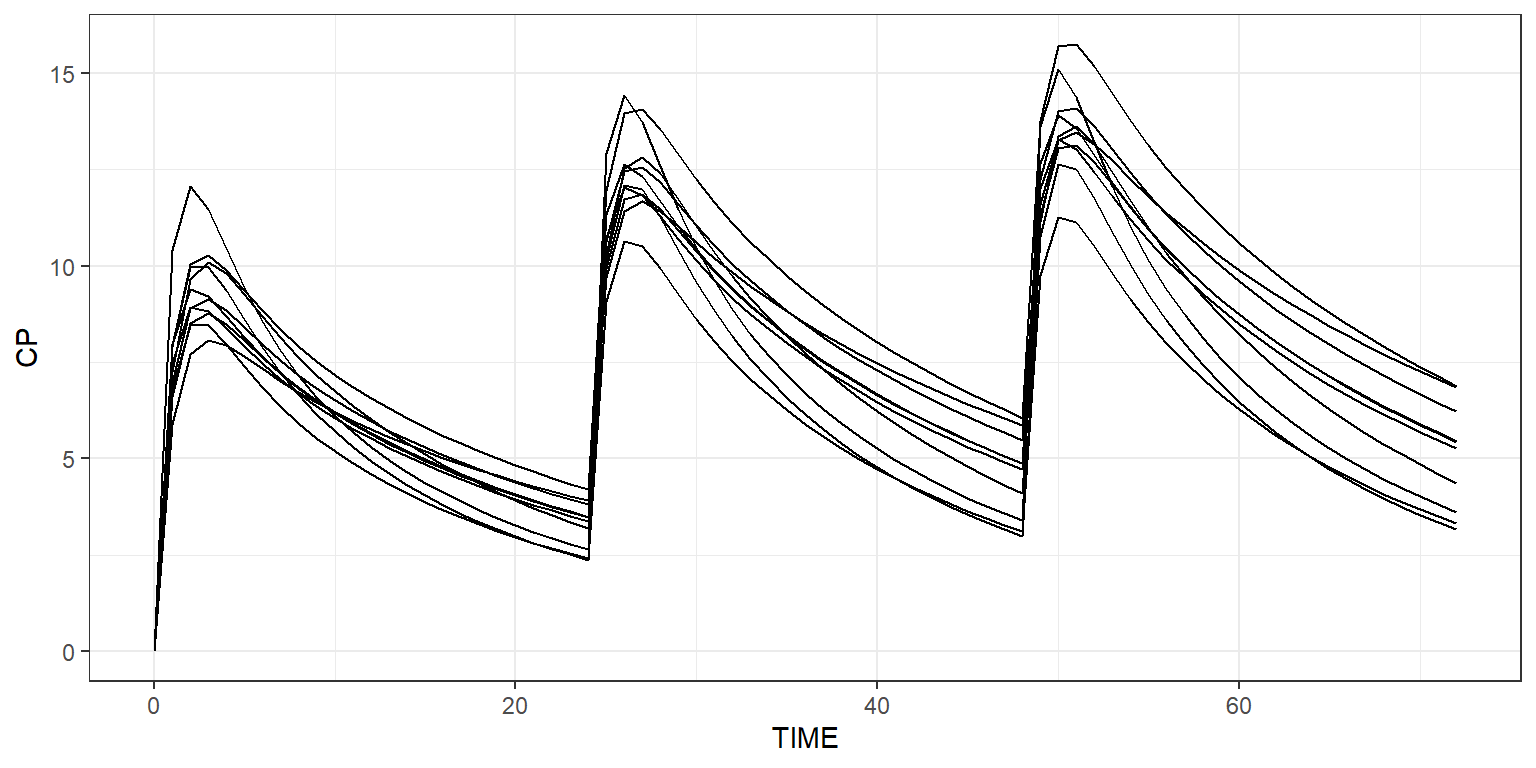
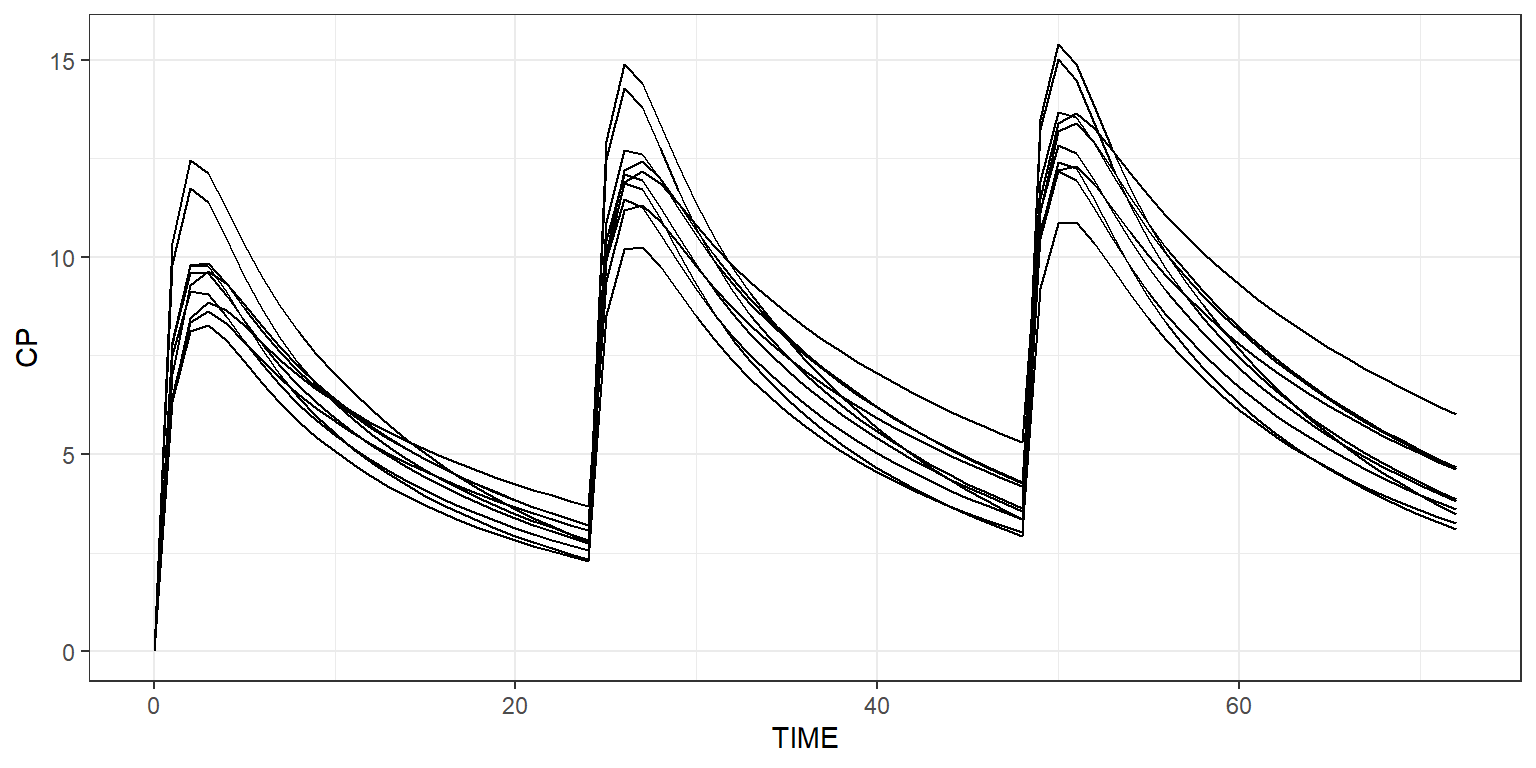
Update (fix seed in simulations).

diff --git a/get_started.html b/get_started.html
@@ -29,8 +29,8 @@
 <link href="site_libs/font-awesome-5.1.0/css/all.css" rel="stylesheet" />
 <link href="site_libs/font-awesome-5.1.0/css/v4-shims.css" rel="stylesheet" />
 <meta property="og:title" content="CAMPSIS">
-<meta property="og:description" content="An open-source PK/PD model simulation platform.">
-<meta property="og:image" content="https://calvagone.github.io/images/campsis_logo.png">
+<meta property="og:description" content="An open-source PK/PD simulation platform">
+<meta property="og:image" content="https://calvagone.github.io/images/campsis_og_image.png">
 <meta property="og:url" content="https://calvagone.github.io/">
 <meta property="twitter:card" content="summary_large_image">
 
@@ -453,11 +453,11 @@ div.tocify {
 <div id="simulate" class="section level2">
 <h2>Simulate</h2>
 <p>Simulate this very simple protocol:</p>
-<div class="sourceCode" id="cb4"><pre class="sourceCode r"><code class="sourceCode r"><span id="cb4-1"><a href="#cb4-1" aria-hidden="true" tabindex="-1"></a>results <span class="ot">&lt;-</span> model <span class="sc">%&gt;%</span> <span class="fu">simulate</span>(dataset)</span>
+<div class="sourceCode" id="cb4"><pre class="sourceCode r"><code class="sourceCode r"><span id="cb4-1"><a href="#cb4-1" aria-hidden="true" tabindex="-1"></a>results <span class="ot">&lt;-</span> model <span class="sc">%&gt;%</span> <span class="fu">simulate</span>(dataset, <span class="at">seed=</span><span class="dv">1</span>)</span>
 <span id="cb4-2"><a href="#cb4-2" aria-hidden="true" tabindex="-1"></a><span class="fu">head</span>(results)</span></code></pre></div>
 <div data-pagedtable="false">
 <script data-pagedtable-source type="application/json">
-{"columns":[{"label":["ID"],"name":[1],"type":["int"],"align":["right"]},{"label":["TIME"],"name":[2],"type":["dbl"],"align":["right"]},{"label":["ARM"],"name":[3],"type":["dbl"],"align":["right"]},{"label":["KA"],"name":[4],"type":["dbl"],"align":["right"]},{"label":["CL"],"name":[5],"type":["dbl"],"align":["right"]},{"label":["V2"],"name":[6],"type":["dbl"],"align":["right"]},{"label":["V3"],"name":[7],"type":["dbl"],"align":["right"]},{"label":["Q"],"name":[8],"type":["dbl"],"align":["right"]},{"label":["S2"],"name":[9],"type":["dbl"],"align":["right"]},{"label":["F"],"name":[10],"type":["dbl"],"align":["right"]},{"label":["CP"],"name":[11],"type":["dbl"],"align":["right"]},{"label":["OBS_CP"],"name":[12],"type":["dbl"],"align":["right"]},{"label":["Y"],"name":[13],"type":["dbl"],"align":["right"]},{"label":["A_DEPOT"],"name":[14],"type":["dbl"],"align":["right"]},{"label":["A_CENTRAL"],"name":[15],"type":["dbl"],"align":["right"]},{"label":["A_PERIPHERAL"],"name":[16],"type":["dbl"],"align":["right"]},{"label":["A_OUTPUT"],"name":[17],"type":["dbl"],"align":["right"]}],"data":[{"1":"1","2":"0","3":"0","4":"1.002694","5":"3.65725","6":"103.4389","7":"19.52297","8":"3.049516","9":"103.4389","10":"0.000000","11":"0.000000","12":"0.000000","13":"0.000000","14":"1000.000000","15":"0.0000","16":"0.00000","17":"0.00000"},{"1":"1","2":"1","3":"0","4":"1.002694","5":"3.65725","6":"103.4389","7":"19.52297","8":"3.049516","9":"103.4389","10":"5.900344","11":"5.900344","12":"4.284587","13":"4.284587","14":"366.889606","15":"610.3251","16":"10.04629","17":"12.73900"},{"1":"1","2":"2","3":"0","4":"1.002694","5":"3.65725","6":"103.4389","7":"19.52297","8":"3.049516","9":"103.4389","10":"7.720649","11":"7.720649","12":"8.579879","13":"8.579879","14":"134.607883","15":"798.6155","16":"28.42826","17":"38.34836"},{"1":"1","2":"3","3":"0","4":"1.002694","5":"3.65725","6":"103.4389","7":"19.52297","8":"3.049516","9":"103.4389","10":"8.084826","11":"8.084826","12":"8.799311","13":"8.799311","14":"49.386189","15":"836.2856","16":"46.83152","17":"67.49672"},{"1":"1","2":"4","3":"0","4":"1.002694","5":"3.65725","6":"103.4389","7":"19.52297","8":"3.049516","9":"103.4389","10":"7.948976","11":"7.948976","12":"7.091197","13":"7.091197","14":"18.119262","15":"822.2333","16":"62.75013","17":"96.89728"},{"1":"1","2":"5","3":"0","4":"1.002694","5":"3.65725","6":"103.4389","7":"19.52297","8":"3.049516","9":"103.4389","10":"7.658431","11":"7.658431","12":"9.806875","13":"9.806875","14":"6.647763","15":"792.1797","16":"75.71358","17":"125.45896"}],"options":{"columns":{"min":{},"max":[10]},"rows":{"min":[10],"max":[10]},"pages":{}}}
+{"columns":[{"label":["ID"],"name":[1],"type":["int"],"align":["right"]},{"label":["TIME"],"name":[2],"type":["dbl"],"align":["right"]},{"label":["ARM"],"name":[3],"type":["dbl"],"align":["right"]},{"label":["KA"],"name":[4],"type":["dbl"],"align":["right"]},{"label":["CL"],"name":[5],"type":["dbl"],"align":["right"]},{"label":["V2"],"name":[6],"type":["dbl"],"align":["right"]},{"label":["V3"],"name":[7],"type":["dbl"],"align":["right"]},{"label":["Q"],"name":[8],"type":["dbl"],"align":["right"]},{"label":["S2"],"name":[9],"type":["dbl"],"align":["right"]},{"label":["F"],"name":[10],"type":["dbl"],"align":["right"]},{"label":["CP"],"name":[11],"type":["dbl"],"align":["right"]},{"label":["OBS_CP"],"name":[12],"type":["dbl"],"align":["right"]},{"label":["Y"],"name":[13],"type":["dbl"],"align":["right"]},{"label":["A_DEPOT"],"name":[14],"type":["dbl"],"align":["right"]},{"label":["A_CENTRAL"],"name":[15],"type":["dbl"],"align":["right"]},{"label":["A_PERIPHERAL"],"name":[16],"type":["dbl"],"align":["right"]},{"label":["A_OUTPUT"],"name":[17],"type":["dbl"],"align":["right"]}],"data":[{"1":"1","2":"0","3":"0","4":"0.974322","5":"6.198232","6":"92.5112","7":"25.40042","8":"3.622786","9":"92.5112","10":"0.000000","11":"0.000000","12":"0.000000","13":"0.000000","14":"1000.000000","15":"0.0000","16":"0.00000","17":"0.00000"},{"1":"1","2":"1","3":"0","4":"0.974322","5":"6.198232","6":"92.5112","7":"25.40042","8":"3.622786","9":"92.5112","10":"6.337635","11":"6.337635","12":"5.417023","13":"5.417023","14":"377.448177","15":"586.3022","16":"12.94392","17":"23.30572"},{"1":"1","2":"2","3":"0","4":"0.974322","5":"6.198232","6":"92.5112","7":"25.40042","8":"3.622786","9":"92.5112","10":"8.124812","11":"8.124812","12":"9.140376","13":"9.140376","14":"142.467027","15":"751.6361","16":"36.43510","17":"69.46177"},{"1":"1","2":"3","3":"0","4":"0.974322","5":"6.198232","6":"92.5112","7":"25.40042","8":"3.622786","9":"92.5112","10":"8.279209","11":"8.279209","12":"10.403122","13":"10.403122","14":"53.773869","15":"765.9196","16":"59.54270","17":"120.76387"},{"1":"1","2":"4","3":"0","4":"0.974322","5":"6.198232","6":"92.5112","7":"25.40042","8":"3.622786","9":"92.5112","10":"7.887823","11":"7.887823","12":"8.126220","13":"8.126220","14":"20.296833","15":"729.7120","16":"78.98181","17":"171.00940"},{"1":"1","2":"5","3":"0","4":"0.974322","5":"6.198232","6":"92.5112","7":"25.40042","8":"3.622786","9":"92.5112","10":"7.349210","11":"7.349210","12":"10.154513","13":"10.154513","14":"7.660996","15":"679.8843","16":"94.19809","17":"218.25664"}],"options":{"columns":{"min":{},"max":[10]},"rows":{"min":[10],"max":[10]},"pages":{}}}
   </script>
 </div>
 </div>
@@ -484,7 +484,7 @@ div.tocify {
 <span id="cb7-9"><a href="#cb7-9" aria-hidden="true" tabindex="-1"></a>dataset <span class="ot">&lt;-</span> <span class="fu">Dataset</span>() <span class="sc">%&gt;%</span></span>
 <span id="cb7-10"><a href="#cb7-10" aria-hidden="true" tabindex="-1"></a>  <span class="fu">add</span>(<span class="fu">c</span>(arm1, arm2))</span>
 <span id="cb7-11"><a href="#cb7-11" aria-hidden="true" tabindex="-1"></a></span>
-<span id="cb7-12"><a href="#cb7-12" aria-hidden="true" tabindex="-1"></a>results <span class="ot">&lt;-</span> model <span class="sc">%&gt;%</span> <span class="fu">simulate</span>(dataset)</span>
+<span id="cb7-12"><a href="#cb7-12" aria-hidden="true" tabindex="-1"></a>results <span class="ot">&lt;-</span> model <span class="sc">%&gt;%</span> <span class="fu">simulate</span>(dataset, <span class="at">seed=</span><span class="dv">1</span>)</span>
 <span id="cb7-13"><a href="#cb7-13" aria-hidden="true" tabindex="-1"></a><span class="fu">shadedPlot</span>(results, <span class="st">&quot;CP&quot;</span>, <span class="at">scenarios=</span><span class="st">&quot;ARM&quot;</span>)</span></code></pre></div>
 <p><img src="get_started_files/figure-html/get_started_2arms_plot-1.png" width="768" style="display: block; margin: auto;" /></p>
 </div>
@@ -495,7 +495,7 @@ div.tocify {
 <span id="cb8-2"><a href="#cb8-2" aria-hidden="true" tabindex="-1"></a>  <span class="fu">add</span>(<span class="fu">Scenario</span>(<span class="st">&quot;Base model&quot;</span>)) <span class="sc">%&gt;%</span> <span class="co"># Original CL is 5</span></span>
 <span id="cb8-3"><a href="#cb8-3" aria-hidden="true" tabindex="-1"></a>  <span class="fu">add</span>(<span class="fu">Scenario</span>(<span class="st">&quot;Increased clearance&quot;</span>, <span class="at">model=</span><span class="sc">~</span>.x <span class="sc">%&gt;%</span> <span class="fu">replace</span>(<span class="fu">Theta</span>(<span class="at">name=</span><span class="st">&quot;CL&quot;</span>, <span class="at">value=</span><span class="dv">10</span>))))</span>
 <span id="cb8-4"><a href="#cb8-4" aria-hidden="true" tabindex="-1"></a></span>
-<span id="cb8-5"><a href="#cb8-5" aria-hidden="true" tabindex="-1"></a>results <span class="ot">&lt;-</span> model <span class="sc">%&gt;%</span> <span class="fu">simulate</span>(dataset, <span class="at">scenarios=</span>scenarios)</span>
+<span id="cb8-5"><a href="#cb8-5" aria-hidden="true" tabindex="-1"></a>results <span class="ot">&lt;-</span> model <span class="sc">%&gt;%</span> <span class="fu">simulate</span>(dataset, <span class="at">scenarios=</span>scenarios, <span class="at">seed=</span><span class="dv">1</span>)</span>
 <span id="cb8-6"><a href="#cb8-6" aria-hidden="true" tabindex="-1"></a><span class="fu">shadedPlot</span>(results, <span class="st">&quot;CP&quot;</span>, <span class="at">scenarios=</span><span class="fu">c</span>(<span class="st">&quot;ARM&quot;</span>, <span class="st">&quot;SCENARIO&quot;</span>)) <span class="sc">+</span> ggplot2<span class="sc">::</span><span class="fu">facet_wrap</span>(<span class="sc">~</span>SCENARIO)</span></code></pre></div>
 <p><img src="get_started_files/figure-html/get_started_2arms_scenarios_plot-1.png" width="768" style="display: block; margin: auto;" /></p>
 </div>

diff --git a/intro.html b/intro.html
@@ -29,8 +29,8 @@
 <link href="site_libs/font-awesome-5.1.0/css/all.css" rel="stylesheet" />
 <link href="site_libs/font-awesome-5.1.0/css/v4-shims.css" rel="stylesheet" />
 <meta property="og:title" content="CAMPSIS">
-<meta property="og:description" content="An open-source PK/PD model simulation platform.">
-<meta property="og:image" content="https://calvagone.github.io/images/campsis_logo.png">
+<meta property="og:description" content="An open-source PK/PD simulation platform">
+<meta property="og:image" content="https://calvagone.github.io/images/campsis_og_image.png">
 <meta property="og:url" content="https://calvagone.github.io/">
 <meta property="twitter:card" content="summary_large_image">
 
@@ -464,12 +464,12 @@ div.tocify {
 <span id="cb4-2"><a href="#cb4-2" aria-hidden="true" tabindex="-1"></a>  <span class="fu">add</span>(<span class="fu">Infusion</span>(<span class="at">time=</span><span class="dv">0</span>, <span class="at">amount=</span><span class="dv">100</span>, <span class="at">compartment=</span><span class="dv">1</span>, <span class="at">duration=</span><span class="dv">10</span>)) <span class="sc">%&gt;%</span></span>
 <span id="cb4-3"><a href="#cb4-3" aria-hidden="true" tabindex="-1"></a>  <span class="fu">add</span>(<span class="fu">Observations</span>(<span class="dv">0</span><span class="sc">:</span><span class="dv">24</span>))</span></code></pre></div>
 <p>We can now simulate this very simple model and dataset.</p>
-<div class="sourceCode" id="cb5"><pre class="sourceCode r"><code class="sourceCode r"><span id="cb5-1"><a href="#cb5-1" aria-hidden="true" tabindex="-1"></a>results <span class="ot">&lt;-</span> model <span class="sc">%&gt;%</span> <span class="fu">simulate</span>(<span class="at">dataset=</span>dataset)</span></code></pre></div>
+<div class="sourceCode" id="cb5"><pre class="sourceCode r"><code class="sourceCode r"><span id="cb5-1"><a href="#cb5-1" aria-hidden="true" tabindex="-1"></a>results <span class="ot">&lt;-</span> model <span class="sc">%&gt;%</span> <span class="fu">simulate</span>(<span class="at">dataset=</span>dataset, <span class="at">seed=</span><span class="dv">0</span>)</span></code></pre></div>
 <p>Eventually, we can use <code>ggplot2</code> to plot these results.</p>
 <div class="sourceCode" id="cb6"><pre class="sourceCode r"><code class="sourceCode r"><span id="cb6-1"><a href="#cb6-1" aria-hidden="true" tabindex="-1"></a><span class="fu">library</span>(ggplot2)</span>
 <span id="cb6-2"><a href="#cb6-2" aria-hidden="true" tabindex="-1"></a><span class="fu">ggplot</span>(results, <span class="fu">aes</span>(<span class="at">x=</span>TIME, <span class="at">y=</span>CP, <span class="at">group=</span>ID)) <span class="sc">+</span></span>
 <span id="cb6-3"><a href="#cb6-3" aria-hidden="true" tabindex="-1"></a>  <span class="fu">geom_line</span>(<span class="at">colour=</span><span class="st">&quot;gray39&quot;</span>, <span class="at">size=</span><span class="dv">1</span>) <span class="sc">+</span> <span class="fu">theme_bw</span>()</span></code></pre></div>
-<p><img src="intro_files/figure-html/unnamed-chunk-7-1.png" width="672" /></p>
+<p><img src="intro_files/figure-html/campsis_a_letter_plot-1.png" width="576" /></p>
 <p>Well done, you just drew the <code>A</code> letter of our CAMPSIS logo.</p>
 </div>
 <div id="going-further" class="section level2">

diff --git a/contact.html b/contact.html
@@ -29,8 +29,8 @@
 <link href="site_libs/font-awesome-5.1.0/css/all.css" rel="stylesheet" />
 <link href="site_libs/font-awesome-5.1.0/css/v4-shims.css" rel="stylesheet" />
 <meta property="og:title" content="CAMPSIS">
-<meta property="og:description" content="An open-source PK/PD model simulation platform.">
-<meta property="og:image" content="https://calvagone.github.io/images/campsis_logo.png">
+<meta property="og:description" content="An open-source PK/PD simulation platform">
+<meta property="og:image" content="https://calvagone.github.io/images/campsis_og_image.png">
 <meta property="og:url" content="https://calvagone.github.io/">
 <meta property="twitter:card" content="summary_large_image">
 

diff --git a/index.html b/index.html
@@ -26,8 +26,8 @@
 <link href="site_libs/font-awesome-5.1.0/css/all.css" rel="stylesheet" />
 <link href="site_libs/font-awesome-5.1.0/css/v4-shims.css" rel="stylesheet" />
 <meta property="og:title" content="CAMPSIS">
-<meta property="og:description" content="An open-source PK/PD model simulation platform.">
-<meta property="og:image" content="https://calvagone.github.io/images/campsis_logo.png">
+<meta property="og:description" content="An open-source PK/PD simulation platform">
+<meta property="og:image" content="https://calvagone.github.io/images/campsis_og_image.png">
 <meta property="og:url" content="https://calvagone.github.io/">
 <meta property="twitter:card" content="summary_large_image">
 

diff --git a/install.html b/install.html
@@ -29,8 +29,8 @@
 <link href="site_libs/font-awesome-5.1.0/css/all.css" rel="stylesheet" />
 <link href="site_libs/font-awesome-5.1.0/css/v4-shims.css" rel="stylesheet" />
 <meta property="og:title" content="CAMPSIS">
-<meta property="og:description" content="An open-source PK/PD model simulation platform.">
-<meta property="og:image" content="https://calvagone.github.io/images/campsis_logo.png">
+<meta property="og:description" content="An open-source PK/PD simulation platform">
+<meta property="og:image" content="https://calvagone.github.io/images/campsis_og_image.png">
 <meta property="og:url" content="https://calvagone.github.io/">
 <meta property="twitter:card" content="summary_large_image">
 

diff --git a/news.html b/news.html
@@ -29,8 +29,8 @@
 <link href="site_libs/font-awesome-5.1.0/css/all.css" rel="stylesheet" />
 <link href="site_libs/font-awesome-5.1.0/css/v4-shims.css" rel="stylesheet" />
 <meta property="og:title" content="CAMPSIS">
-<meta property="og:description" content="An open-source PK/PD model simulation platform.">
-<meta property="og:image" content="https://calvagone.github.io/images/campsis_logo.png">
+<meta property="og:description" content="An open-source PK/PD simulation platform">
+<meta property="og:image" content="https://calvagone.github.io/images/campsis_og_image.png">
 <meta property="og:url" content="https://calvagone.github.io/">
 <meta property="twitter:card" content="summary_large_image">
 

diff --git a/header.html b/header.html
@@ -1,5 +1,5 @@
 <meta property="og:title" content="CAMPSIS">
-<meta property="og:description" content="An open-source PK/PD model simulation platform.">
-<meta property="og:image" content="https://calvagone.github.io/images/campsis_logo.png">
+<meta property="og:description" content="An open-source PK/PD simulation platform">
+<meta property="og:image" content="https://calvagone.github.io/images/campsis_og_image.png">
 <meta property="og:url" content="https://calvagone.github.io/">
 <meta property="twitter:card" content="summary_large_image">
